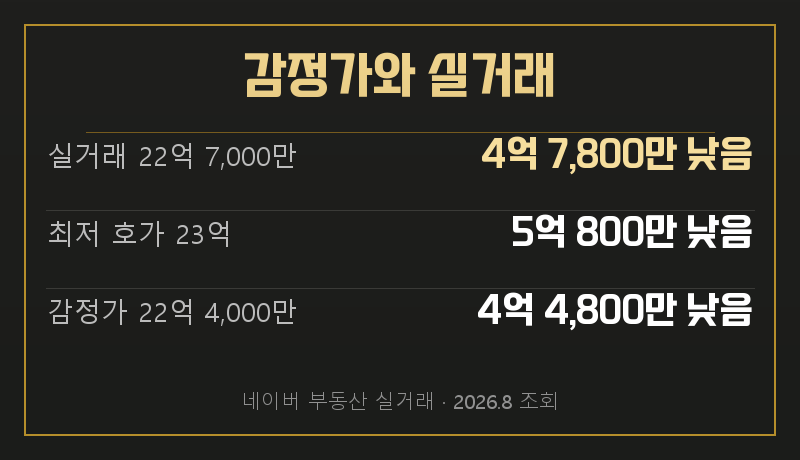
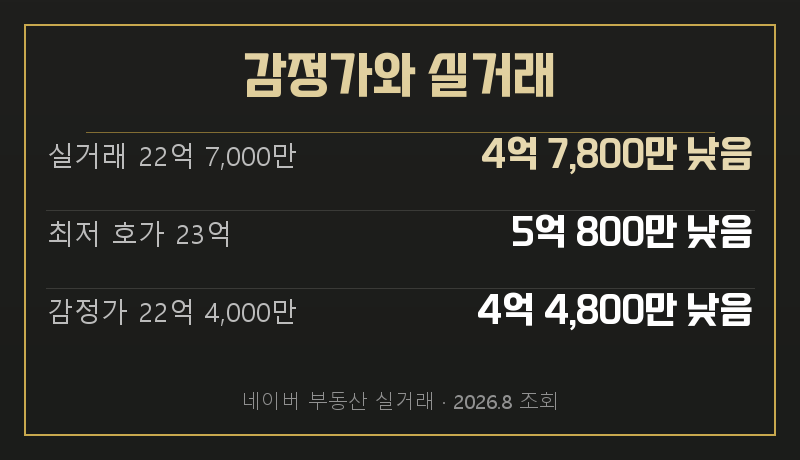
fix(카드): 카드 액센트도 페르소나 스킨 정본에서 받는다 — 썸네일과 같은 병이었다
대표 지적(0817): "디자인 통일해서 보여줘."

썸네일·푸터는 페르소나별로 갈라졌는데 카드만 고정 금테라 한 글 안에서 톤이 어긋났다.
원인은 썸네일과 똑같다 — generate_cards.py가 페르소나를 아예 안 받았다.

- render_card(card, dst, persona) — 액센트를 blog_theme.theme(persona)["accent"]에서 도출.
  여기에 새 색표를 만들지 않는다(볼트 02_결정/산출기_단일화_원칙.md 8절 등록부).
- card_data.json 사건마다 persona 지정 — 썸네일·푸터와 같은 값을 쓴다.
  68165 auction_practitioner #A2822F / 51955 veteran_realtor #C8A84E
  3414 data_analyst #3E5C8A

검증: 카드 13장 재생성 · check_pages.py 초록(6편·이미지 61·깨진 경로 0).

Changed region(s): [[0.0312, 0.9435, 0.9688, 0.9739], [0.0312, 0.0304, 0.9688, 0.0609]]

diff --git a/tools/generate_cards.py b/tools/generate_cards.py
@@ -31,6 +31,26 @@ FONT_BOLD = Path(r"C:\Users\s\OneDrive\바탕 화면\잡다\폰트\폰트\SEBANG
 FONT_REGULAR = Path(r"C:\Windows\Fonts\malgun.ttf")
 
 
+#: 카드 액센트 = **페르소나 스킨 정본에서 온다**. 여기에 색표를 새로 만들지 않는다.
+#  ★2026-08-17 대표 지적("디자인 통일"): 썸네일·푸터는 페르소나별로 갈리는데 카드만
+#    고정 금테라 한 글 안에서 톤이 어긋났다. 원인은 썸네일과 **똑같다** — 이 렌더러가
+#    페르소나를 아예 안 받았다(볼트 `02_결정/산출기_단일화_원칙.md` §8).
+_THEME_SRC = ROOT.parent / "thefin-auction-report" / "src"
+
+
+@lru_cache(maxsize=None)
+def _accent(persona: str | None) -> tuple[tuple[int, int, int], tuple[int, int, int]]:
+    """(테두리·구분선용 진한 액센트, 제목 그라데이션 밝은 끝) — 정본 blog_theme에서 도출."""
+    import sys as _sys
+    if str(_THEME_SRC) not in _sys.path:
+        _sys.path.insert(0, str(_THEME_SRC))
+    from utils import blog_theme                                   # noqa: PLC0415
+    hexv = blog_theme.theme(persona)["accent"].lstrip("#")
+    base = tuple(int(hexv[i:i + 2], 16) for i in (0, 2, 4))
+    light = tuple(min(255, round(c + (255 - c) * 0.55)) for c in base)
+    return base, light
+
+
 @lru_cache(maxsize=None)
 def _font(path: Path, size: int) -> ImageFont.FreeTypeFont:
     if not path.is_file():
@@ -46,12 +66,13 @@ def _fit_font(draw: ImageDraw.ImageDraw, text: str, path: Path, start: int, max_
     raise ValueError(f"카드 폭에 들어가지 않는 문자열: {text}")
 
 
-def _gold_text(image: Image.Image, xy: tuple[int, int], text: str, font: ImageFont.FreeTypeFont) -> None:
+def _accent_text(image: Image.Image, xy: tuple[int, int], text: str,
+                 font: ImageFont.FreeTypeFont, accent) -> None:
+    base, light = accent
     mask = Image.new("L", image.size, 0)
     ImageDraw.Draw(mask).text(xy, text, font=font, fill=255, anchor="mm")
     ramp = Image.linear_gradient("L").resize(image.size)
-    gradient = ImageOps.colorize(ramp, black=(246, 220, 151), white=(188, 151, 74))
-    image.paste(gradient, (0, 0), mask)
+    image.paste(ImageOps.colorize(ramp, black=light, white=base), (0, 0), mask)
 
 
 def _background(height: int) -> Image.Image:
@@ -59,19 +80,23 @@ def _background(height: int) -> Image.Image:
     return ImageOps.colorize(ramp, black=(31, 31, 29), white=(27, 28, 26))
 
 
-def render_card(card: dict[str, Any], destination: Path) -> None:
+def render_card(card: dict[str, Any], destination: Path, persona: str | None = None) -> None:
     rows = card["rows"]
     if not 2 <= len(rows) <= 5:
         raise ValueError(f"행 수는 2~5개여야 합니다: {destination}")
     height = max(460, 226 + len(rows) * 78)
     image = _background(height)
     draw = ImageDraw.Draw(image)
-    gold, line = (181, 142, 43), (58, 58, 55)
-    label_color, white, highlight = (188, 188, 188), (255, 255, 255), (246, 222, 157)
+    accent = _accent(persona)
+    base, light = accent
+    line = (58, 58, 55)
+    label_color, white, highlight = (188, 188, 188), (255, 255, 255), light
+    rule = tuple(round(c * 0.65) for c in base)
 
-    draw.rectangle((24, 24, WIDTH - 25, height - 25), outline=gold, width=2)
-    _gold_text(image, (WIDTH // 2, 76), card["title"], _fit_font(draw, card["title"], FONT_BOLD, 48, 680))
-    draw.line((86, 132, WIDTH - 86, 132), fill=(118, 91, 30), width=1)
+    draw.rectangle((24, 24, WIDTH - 25, height - 25), outline=base, width=2)
+    _accent_text(image, (WIDTH // 2, 76), card["title"],
+                 _fit_font(draw, card["title"], FONT_BOLD, 48, 680), accent)
+    draw.line((86, 132, WIDTH - 86, 132), fill=rule, width=1)
 
     y0 = 154
     for index, row in enumerate(rows):
@@ -124,8 +149,9 @@ def generate(data_path: Path, selected_case: str | None = None) -> int:
     for case_key, case in data["cases"].items():
         if selected_case and case_key != selected_case:
             continue
+        persona = case.get("persona")
         for kind, card in case["cards"].items():
-            render_card(card, ROOT / case_key / "img" / CARD_FILES[kind])
+            render_card(card, ROOT / case_key / "img" / CARD_FILES[kind], persona)
             made += 1
     return made
 
